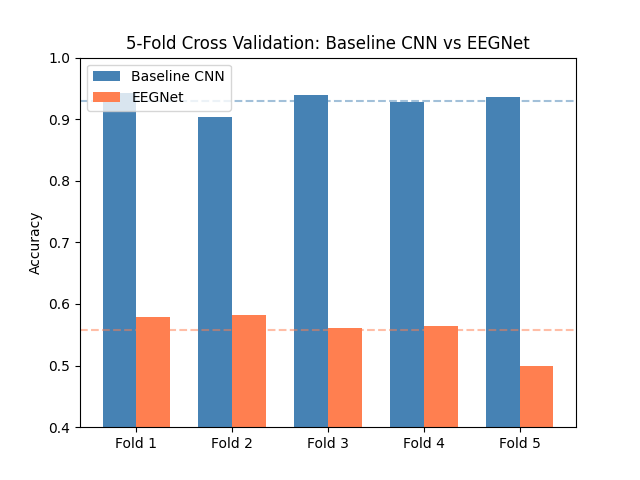
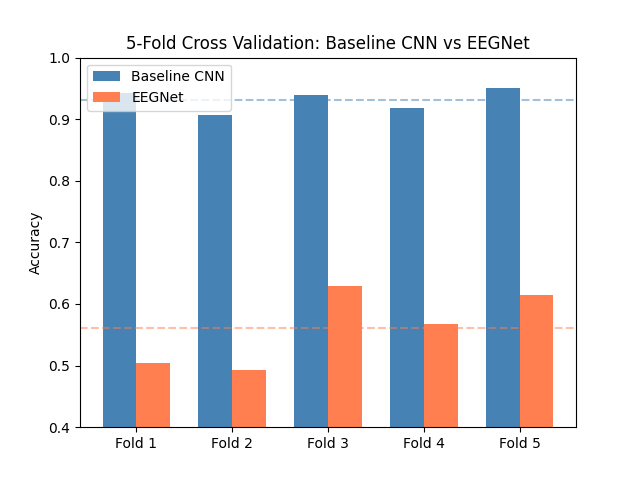
Fixes to test for CNN  overfitting

diff --git a/loso_eval.py b/loso_eval.py
@@ -1,0 +1,82 @@
+import numpy as np
+import matplotlib.pyplot as plt
+import os
+from load_data import load_subject
+from main import build_eegnet, build_baseline_cnn, T, C
+from tensorflow.keras.callbacks import EarlyStopping
+import tensorflow as tf
+
+np.random.seed(42)
+tf.random.set_seed(42)
+
+os.makedirs("results", exist_ok=True)
+
+SUBJECTS = ["aa", "al", "av", "aw", "ay"]
+es = EarlyStopping(patience=10, restore_best_weights=True)
+
+# Leave-One-Subject-Out Evaluation
+print("\n═ Leave-One-Subject-Out Evaluation:")
+loso_results = {"baseline": [], "eegnet": []}
+
+for test_subj in SUBJECTS:
+    print(f"\n─── Test Subject: {test_subj} ───")
+
+    X_train_list, y_train_list = [], []
+    for subj in SUBJECTS:
+        X_s, y_s = load_subject("P4", subj)
+        mean_s = X_s.mean(axis=(0, 1), keepdims=True)
+        std_s  = X_s.std(axis=(0, 1),  keepdims=True) + 1e-8
+        X_s    = (X_s - mean_s) / std_s
+        if set(np.unique(y_s)) == {1, 2}:
+            y_s = (y_s == 2).astype(np.float32)
+        if subj == test_subj:
+            X_test_s, y_test_s = X_s, y_s
+        else:
+            X_train_list.append(X_s)
+            y_train_list.append(y_s)
+
+    X_train_s = np.concatenate(X_train_list)[..., np.newaxis]
+    y_train_s = np.concatenate(y_train_list)
+    X_test_s  = X_test_s[..., np.newaxis]
+
+    # Baseline CNN
+    cnn = build_baseline_cnn(X_train_s.shape[1:])
+    cnn.fit(X_train_s, y_train_s, epochs=100, batch_size=32,
+            validation_split=0.1, callbacks=[es], verbose=0)
+    _, acc = cnn.evaluate(X_test_s, y_test_s, verbose=0)
+    loso_results["baseline"].append(acc)
+    print(f"Baseline CNN: {acc:.4f}")
+
+    # EEGNet
+    eeg = build_eegnet(T, C)
+    eeg.fit(X_train_s, y_train_s, epochs=100, batch_size=32,
+            validation_split=0.1, callbacks=[es], verbose=0)
+    _, acc = eeg.evaluate(X_test_s, y_test_s, verbose=0)
+    loso_results["eegnet"].append(acc)
+    print(f"EEGNet:       {acc:.4f}")
+
+print("\n═ LOSO Final Results:")
+for name, accs in loso_results.items():
+    print(f"{name}: {np.mean(accs):.4f} ± {np.std(accs):.4f}")
+    for subj, acc in zip(SUBJECTS, accs):
+        print(f"  {subj}: {acc:.4f}")
+
+# LOSO Bar Chart
+fig, ax = plt.subplots(figsize=(8, 5))
+x = np.arange(len(SUBJECTS))
+ax.bar(x - 0.2, loso_results["baseline"], 0.4, label="Baseline CNN", color="steelblue")
+ax.bar(x + 0.2, loso_results["eegnet"],   0.4, label="EEGNet",       color="coral")
+ax.axhline(np.mean(loso_results["baseline"]), color="steelblue", linestyle="--", alpha=0.5)
+ax.axhline(np.mean(loso_results["eegnet"]),   color="coral",     linestyle="--", alpha=0.5)
+ax.set_xticks(x)
+ax.set_xticklabels([s.upper() for s in SUBJECTS])
+ax.set_ylim(0.4, 1.0)
+ax.set_ylabel("Accuracy")
+ax.set_title("Leave-One-Subject-Out: Baseline CNN vs EEGNet")
+ax.legend(loc="upper left")
+plt.tight_layout()
+plt.savefig("results/loso_comparison.png")
+plt.close()
+print("Saved: loso_comparison.png")
+
+print("\n Done.")
